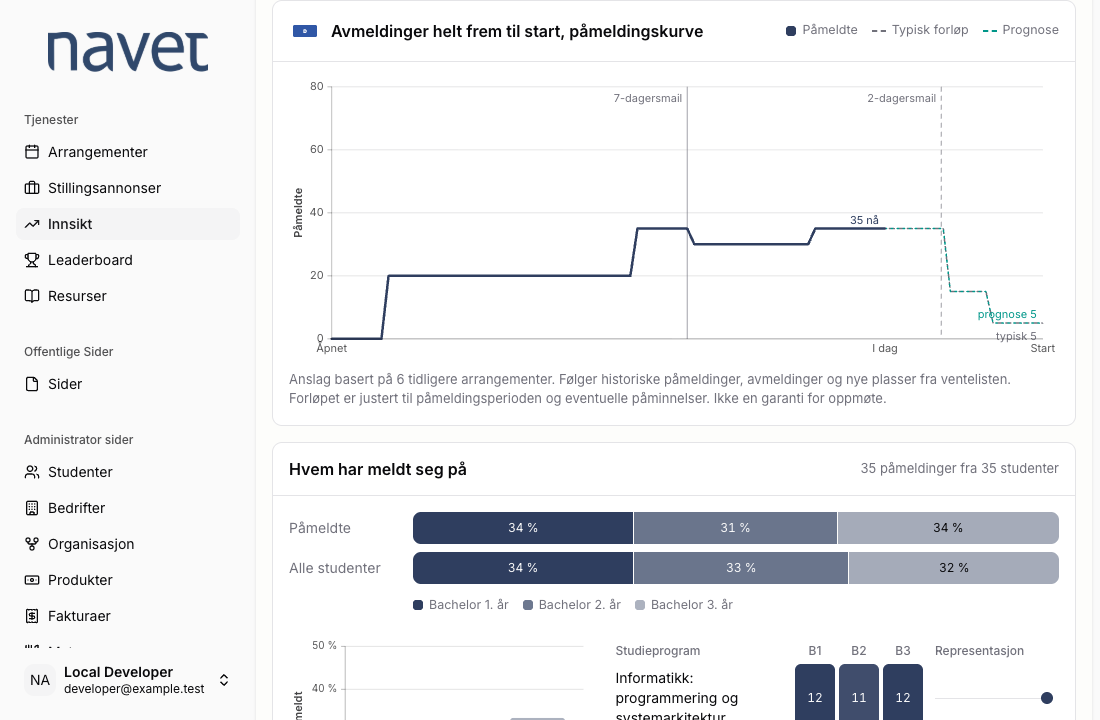
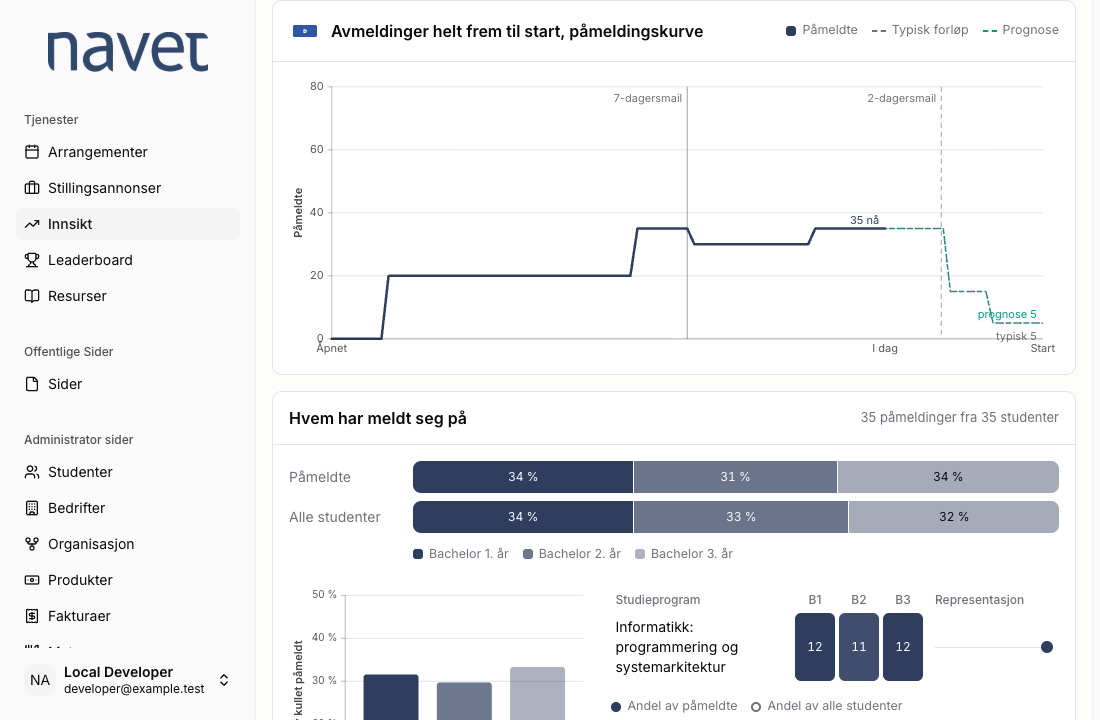
ui: remove explanatory copy below registration charts

diff --git a/apps/bifrost/src/components/engagement/pace-chart.tsx b/apps/bifrost/src/components/engagement/pace-chart.tsx
@@ -9,9 +9,9 @@ import type { Id } from "@workspace/backend/convex/dataModel";
 import { DATE_PATTERNS, formatOsloDate } from "@workspace/shared/time";
 import { CompanyLogo } from "@workspace/ui/components/company-logo";
 import { ChartLegend } from "@workspace/ui/components/products/chart-legend";
-import { Panel, PanelBody, PanelNote } from "@workspace/ui/components/products/panel";
+import { Panel, PanelBody } from "@workspace/ui/components/products/panel";
 import { Skeleton } from "@workspace/ui/components/skeleton";
-import { type ReactNode, useMemo } from "react";
+import { useMemo } from "react";
 import { ACCENT_SERIES_COLOR, MUTED_SERIES_COLOR } from "@/components/common/chart-colors";
 import { useStableQuery } from "@/hooks/use-stable-query";
 import { type PaceCurve, paceLabels, paceTickLabel, paceTicks } from "./engagement-format";
@@ -166,18 +166,7 @@ function PaceChartBody({ curve }: Readonly<{ curve: PaceCurve }>) {
 	);
 }
 
-function forecastNote(curve: PaceCurve | null | undefined, fallback: ReactNode) {
-	if (!curve || curve.progress <= 0 || curve.progress >= 1 || curve.registered <= 0)
-		return fallback;
-	if (curve.projected === null) return "For lite historikk til å beregne en prognose.";
-	return `Anslag basert på ${curve.baselineSize} tidligere arrangementer. Følger historiske påmeldinger, avmeldinger og nye plasser fra ventelisten. Forløpet er justert til påmeldingsperioden og eventuelle påminnelser. Ikke en garanti for oppmøte.`;
-}
-
-export function PaceChart({
-	eventId,
-	now,
-	note,
-}: Readonly<{ eventId: Id<"events">; now: number; note: ReactNode }>) {
+export function PaceChart({ eventId, now }: Readonly<{ eventId: Id<"events">; now: number }>) {
 	const curve = useStableQuery(api.engagement.queries.paceCurve, { eventId, now }, eventId);
 
 	return (
@@ -197,7 +186,6 @@ export function PaceChart({
 		>
 			<PanelBody className="grid gap-3">
 				{curve ? <PaceChartBody curve={curve} /> : <Skeleton className="h-[280px] w-full" />}
-				<PanelNote>{forecastNote(curve, note)}</PanelNote>
 			</PanelBody>
 		</Panel>
 	);

diff --git a/apps/bifrost/src/components/engagement/past-view.tsx b/apps/bifrost/src/components/engagement/past-view.tsx
@@ -18,13 +18,7 @@ import { useRef, useState } from "react";
 import { PRIMARY_SERIES_COLOR } from "@/components/common/chart-colors";
 import { LIST_CELL, LIST_HEAD } from "@/components/common/table-classes";
 import { useStableQuery } from "@/hooks/use-stable-query";
-import {
-	attendanceRate,
-	fillShare,
-	formatShare,
-	PAST_PACE_NOTE,
-	type PastEvent,
-} from "./engagement-format";
+import { attendanceRate, fillShare, formatShare, type PastEvent } from "./engagement-format";
 import { EventAudience } from "./event-audience";
 import { EventCell } from "./event-cell";
 import { PaceChart } from "./pace-chart";
@@ -145,7 +139,7 @@ export function PastView({ now }: Readonly<{ now: number }>) {
 			<div ref={paceRef} className="grid scroll-mt-4 gap-4">
 				{selectedId && (
 					<>
-						<PaceChart eventId={selectedId} now={now} note={PAST_PACE_NOTE} />
+						<PaceChart eventId={selectedId} now={now} />
 						<EventAudience eventId={selectedId} />
 					</>
 				)}

diff --git a/apps/bifrost/src/components/engagement/companies-view.tsx b/apps/bifrost/src/components/engagement/companies-view.tsx
@@ -43,7 +43,6 @@ import {
 	METRICS,
 	type MetricKey,
 	matchingCompanies,
-	PAST_PACE_NOTE,
 	rankLabel,
 	type SemesterOption,
 	type Standing,
@@ -389,7 +388,7 @@ function CompanyEvents({ detail, now }: Readonly<{ detail: CompanyDetail; now: n
 				)}
 			</Panel>
 			<div ref={paceRef} className="scroll-mt-4">
-				{selectedId && <PaceChart eventId={selectedId} now={now} note={PAST_PACE_NOTE} />}
+				{selectedId && <PaceChart eventId={selectedId} now={now} />}
 			</div>
 		</>
 	);

diff --git a/apps/bifrost/src/components/engagement/engagement-dashboard.tsx b/apps/bifrost/src/components/engagement/engagement-dashboard.tsx
@@ -50,11 +50,7 @@ function LiveView({ now }: Readonly<{ now: number }>) {
 			<div ref={paceRef} className="grid scroll-mt-4 gap-4">
 				{selectedId && (
 					<>
-						<PaceChart
-							eventId={selectedId}
-							now={now}
-							note="Viser arrangementet du klikker på i tabellen eller i et varsel. Uten valg åpnes det mest akutte varselet."
-						/>
+						<PaceChart eventId={selectedId} now={now} />
 						<EventAudience eventId={selectedId} />
 					</>
 				)}

diff --git a/apps/bifrost/src/components/engagement/engagement-format.ts b/apps/bifrost/src/components/engagement/engagement-format.ts
@@ -464,6 +464,3 @@ export function formatMetric(key: MetricKey, value: number | null) {
 export function rankLabel({ rank, of }: Pick<CompanyComparison, "rank" | "of">) {
 	return rank === null ? null : `${rank} av ${of}`;
 }
-
-export const PAST_PACE_NOTE =
-	"Viser arrangementet du klikker på i tabellen. Typisk forløp bygger på arrangementene før dette.";
